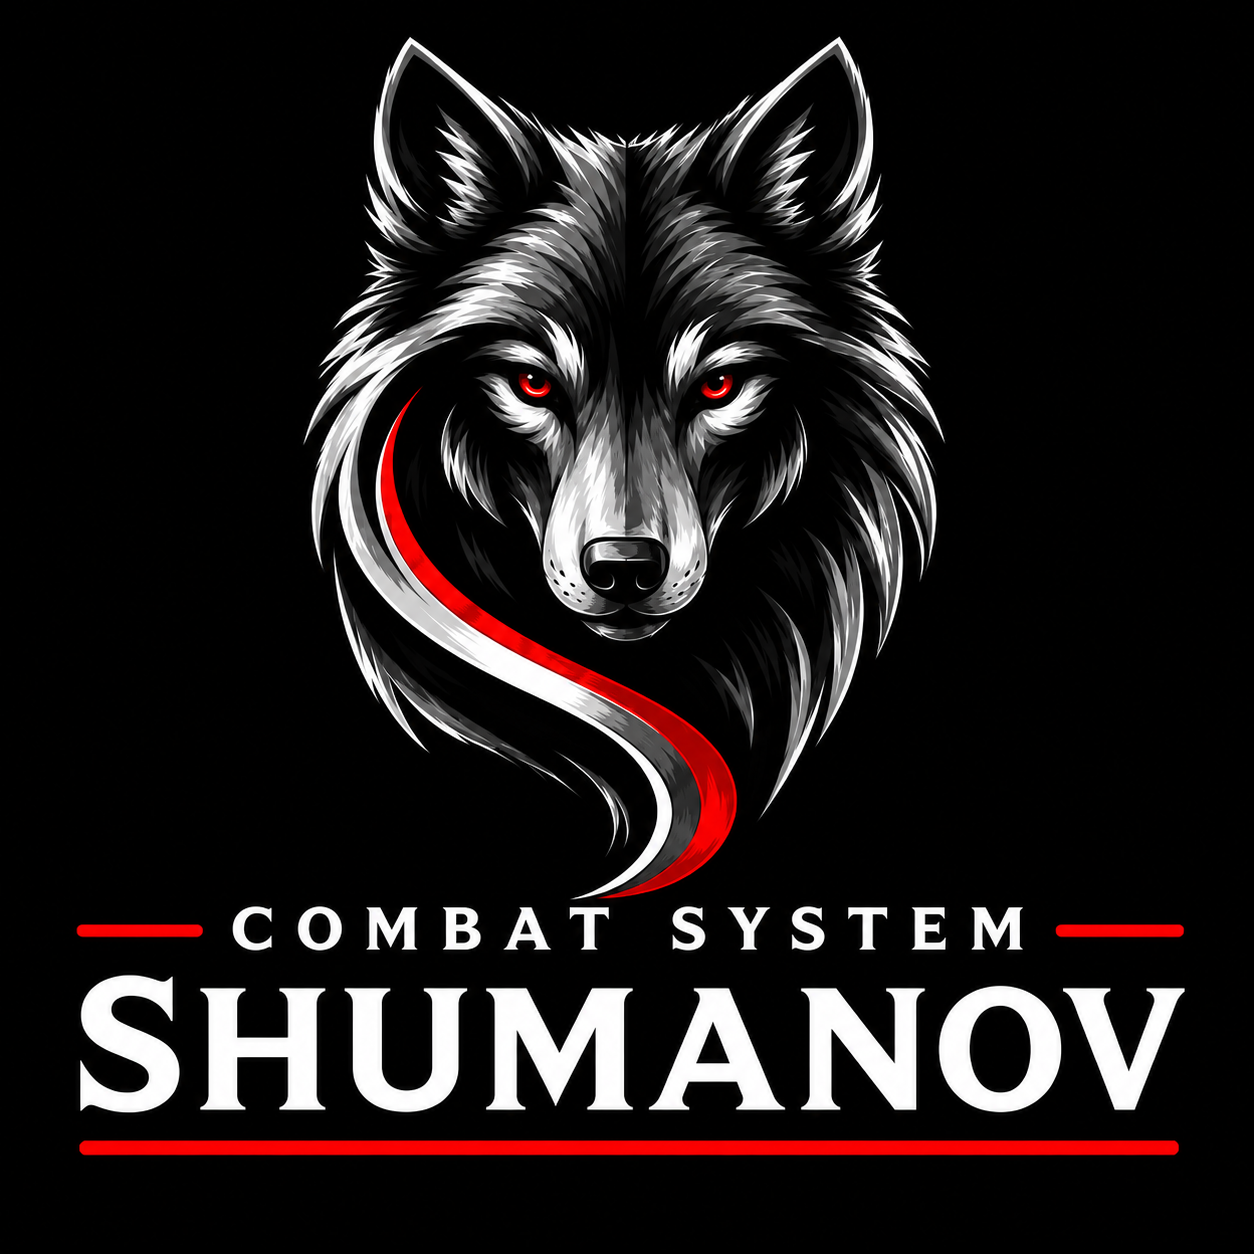
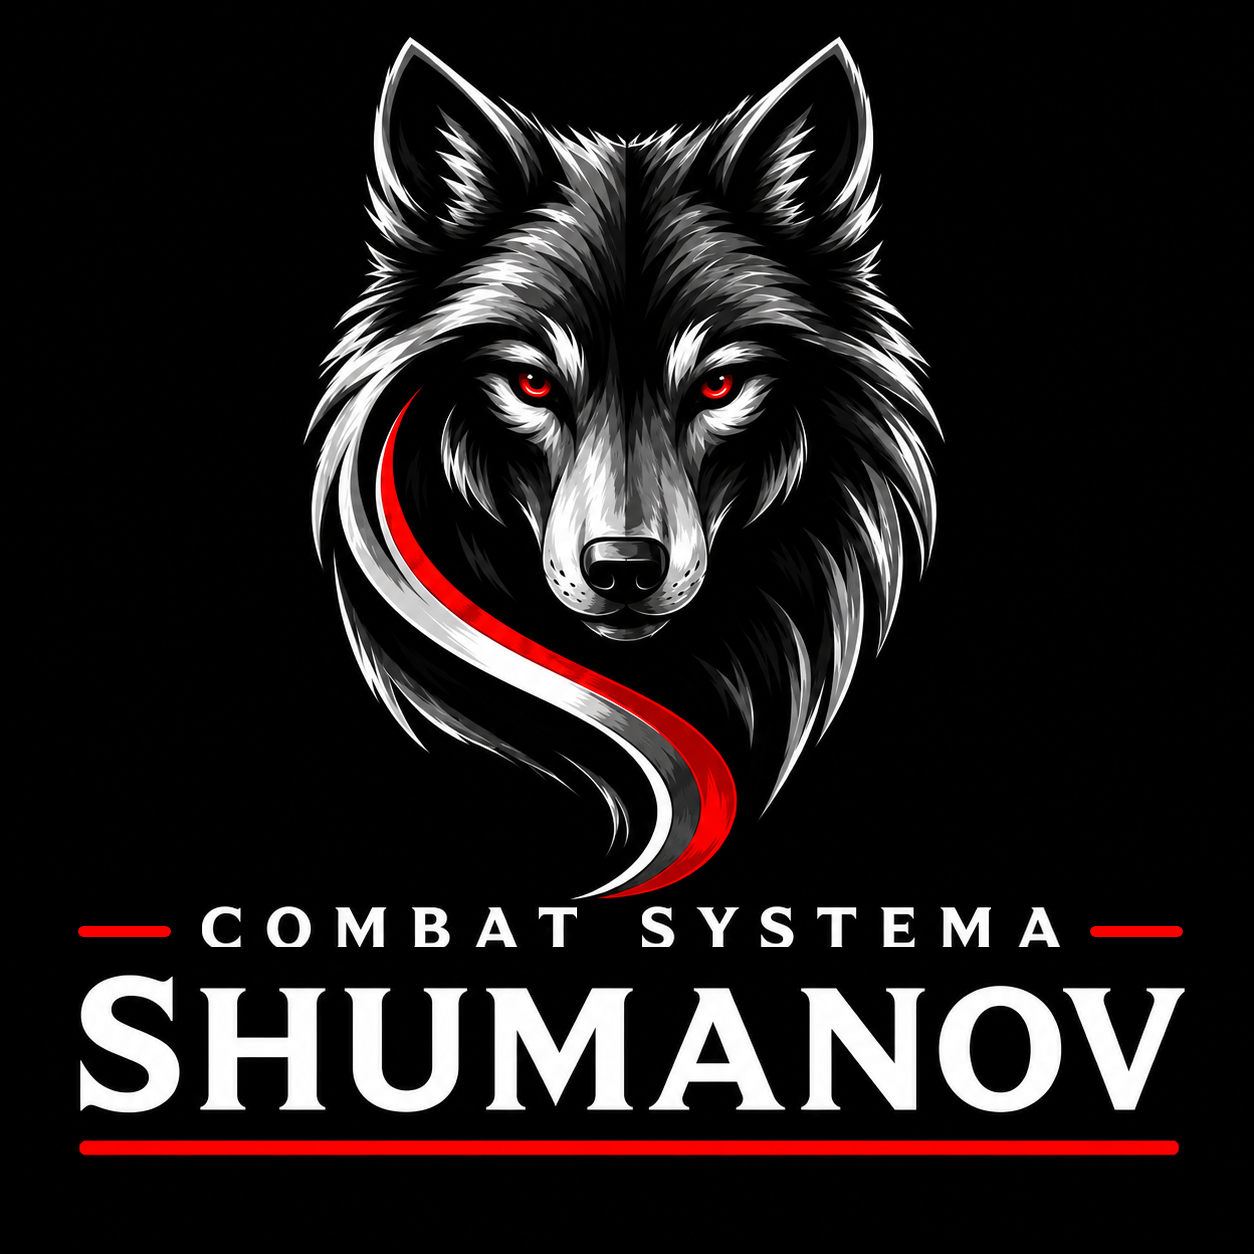
feat: rename branding to COMBAT SYSTEMA
Update the visual identity and brand references throughout the application from "COMBAT SYSTEM" to "COMBAT SYSTEMA" to ensure consistency.

Changed region(s): [[0.1244, 0.7153, 0.8708, 0.7775]]

diff --git a/src/components/Footer.tsx b/src/components/Footer.tsx
@@ -11,7 +11,7 @@ export const Footer: React.FC<FooterProps> = ({ language }) => {
   const currentYear = new Date().getFullYear();
 
   const brandMain = language === 'mk' ? 'ШУМАНОВ' : 'SHUMANOV';
-  const brandSub = language === 'mk' ? 'БОЕВА СИСТЕМА' : 'COMBAT SYSTEM';
+  const brandSub = language === 'mk' ? 'БОЕВА СИСТЕМА' : 'COMBAT SYSTEMA';
 
   return (
     <footer id="contact" className="bg-black border-t-2 border-neutral-900 text-neutral-400 pt-16 pb-12 px-4 sm:px-6 lg:px-8 relative">

diff --git a/public/standalone.html b/public/standalone.html
@@ -156,7 +156,7 @@
           <img class="hero-emblem" src="assets/emblem.png" alt="Емблема на волк — Combat System Shumanov">
         </div>
         <div class="hero-copy">
-          <div class="hero-brand-top">COMBAT SYSTEM</div>
+          <div class="hero-brand-top">COMBAT SYSTEMA</div>
           <h1>ШУМАНОВ</h1>
           <div class="hero-bar"></div>
           <p class="motto">Тренирај го телото. Разбери го умот. Запознај се себеси.</p>

diff --git a/src/components/Header.tsx b/src/components/Header.tsx
@@ -36,7 +36,7 @@ export const Header: React.FC<HeaderProps> = ({
   ];
 
   const brandMain = language === 'mk' ? 'ШУМАНОВ' : 'SHUMANOV';
-  const brandSub = language === 'mk' ? 'БОЕВА СИСТЕМА' : 'COMBAT SYSTEM';
+  const brandSub = language === 'mk' ? 'БОЕВА СИСТЕМА' : 'COMBAT SYSTEMA';
 
   return (
     <header
